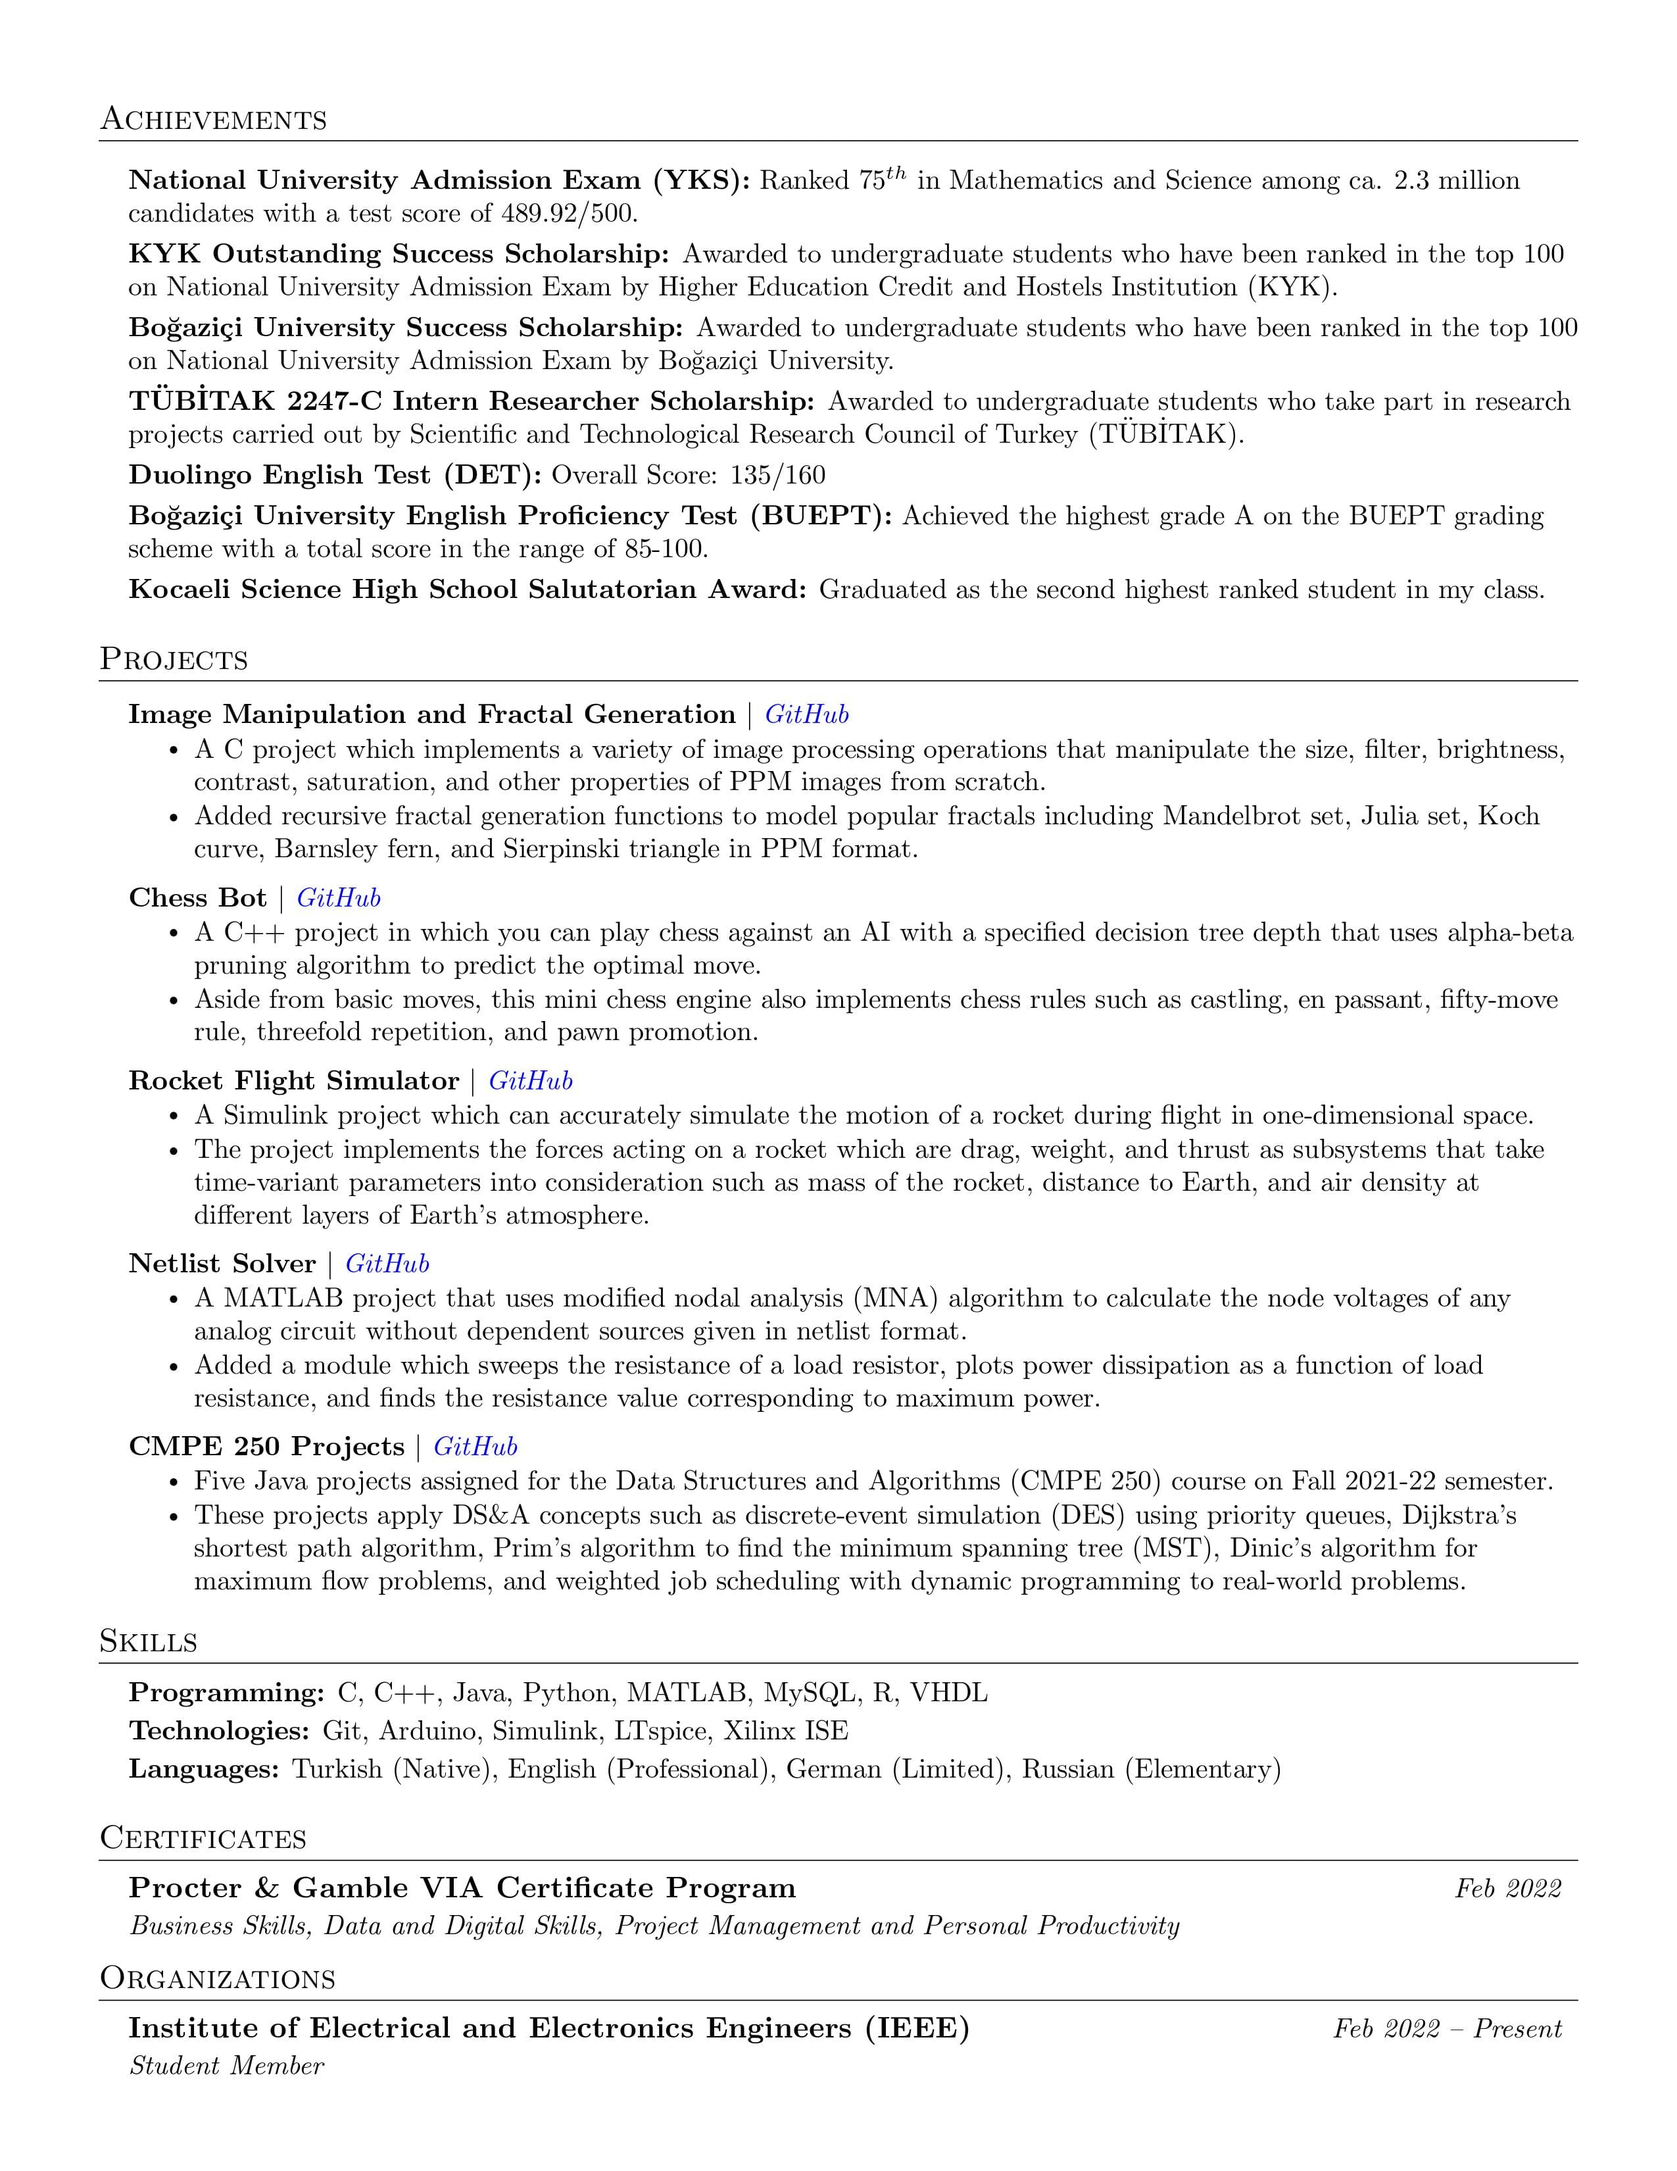
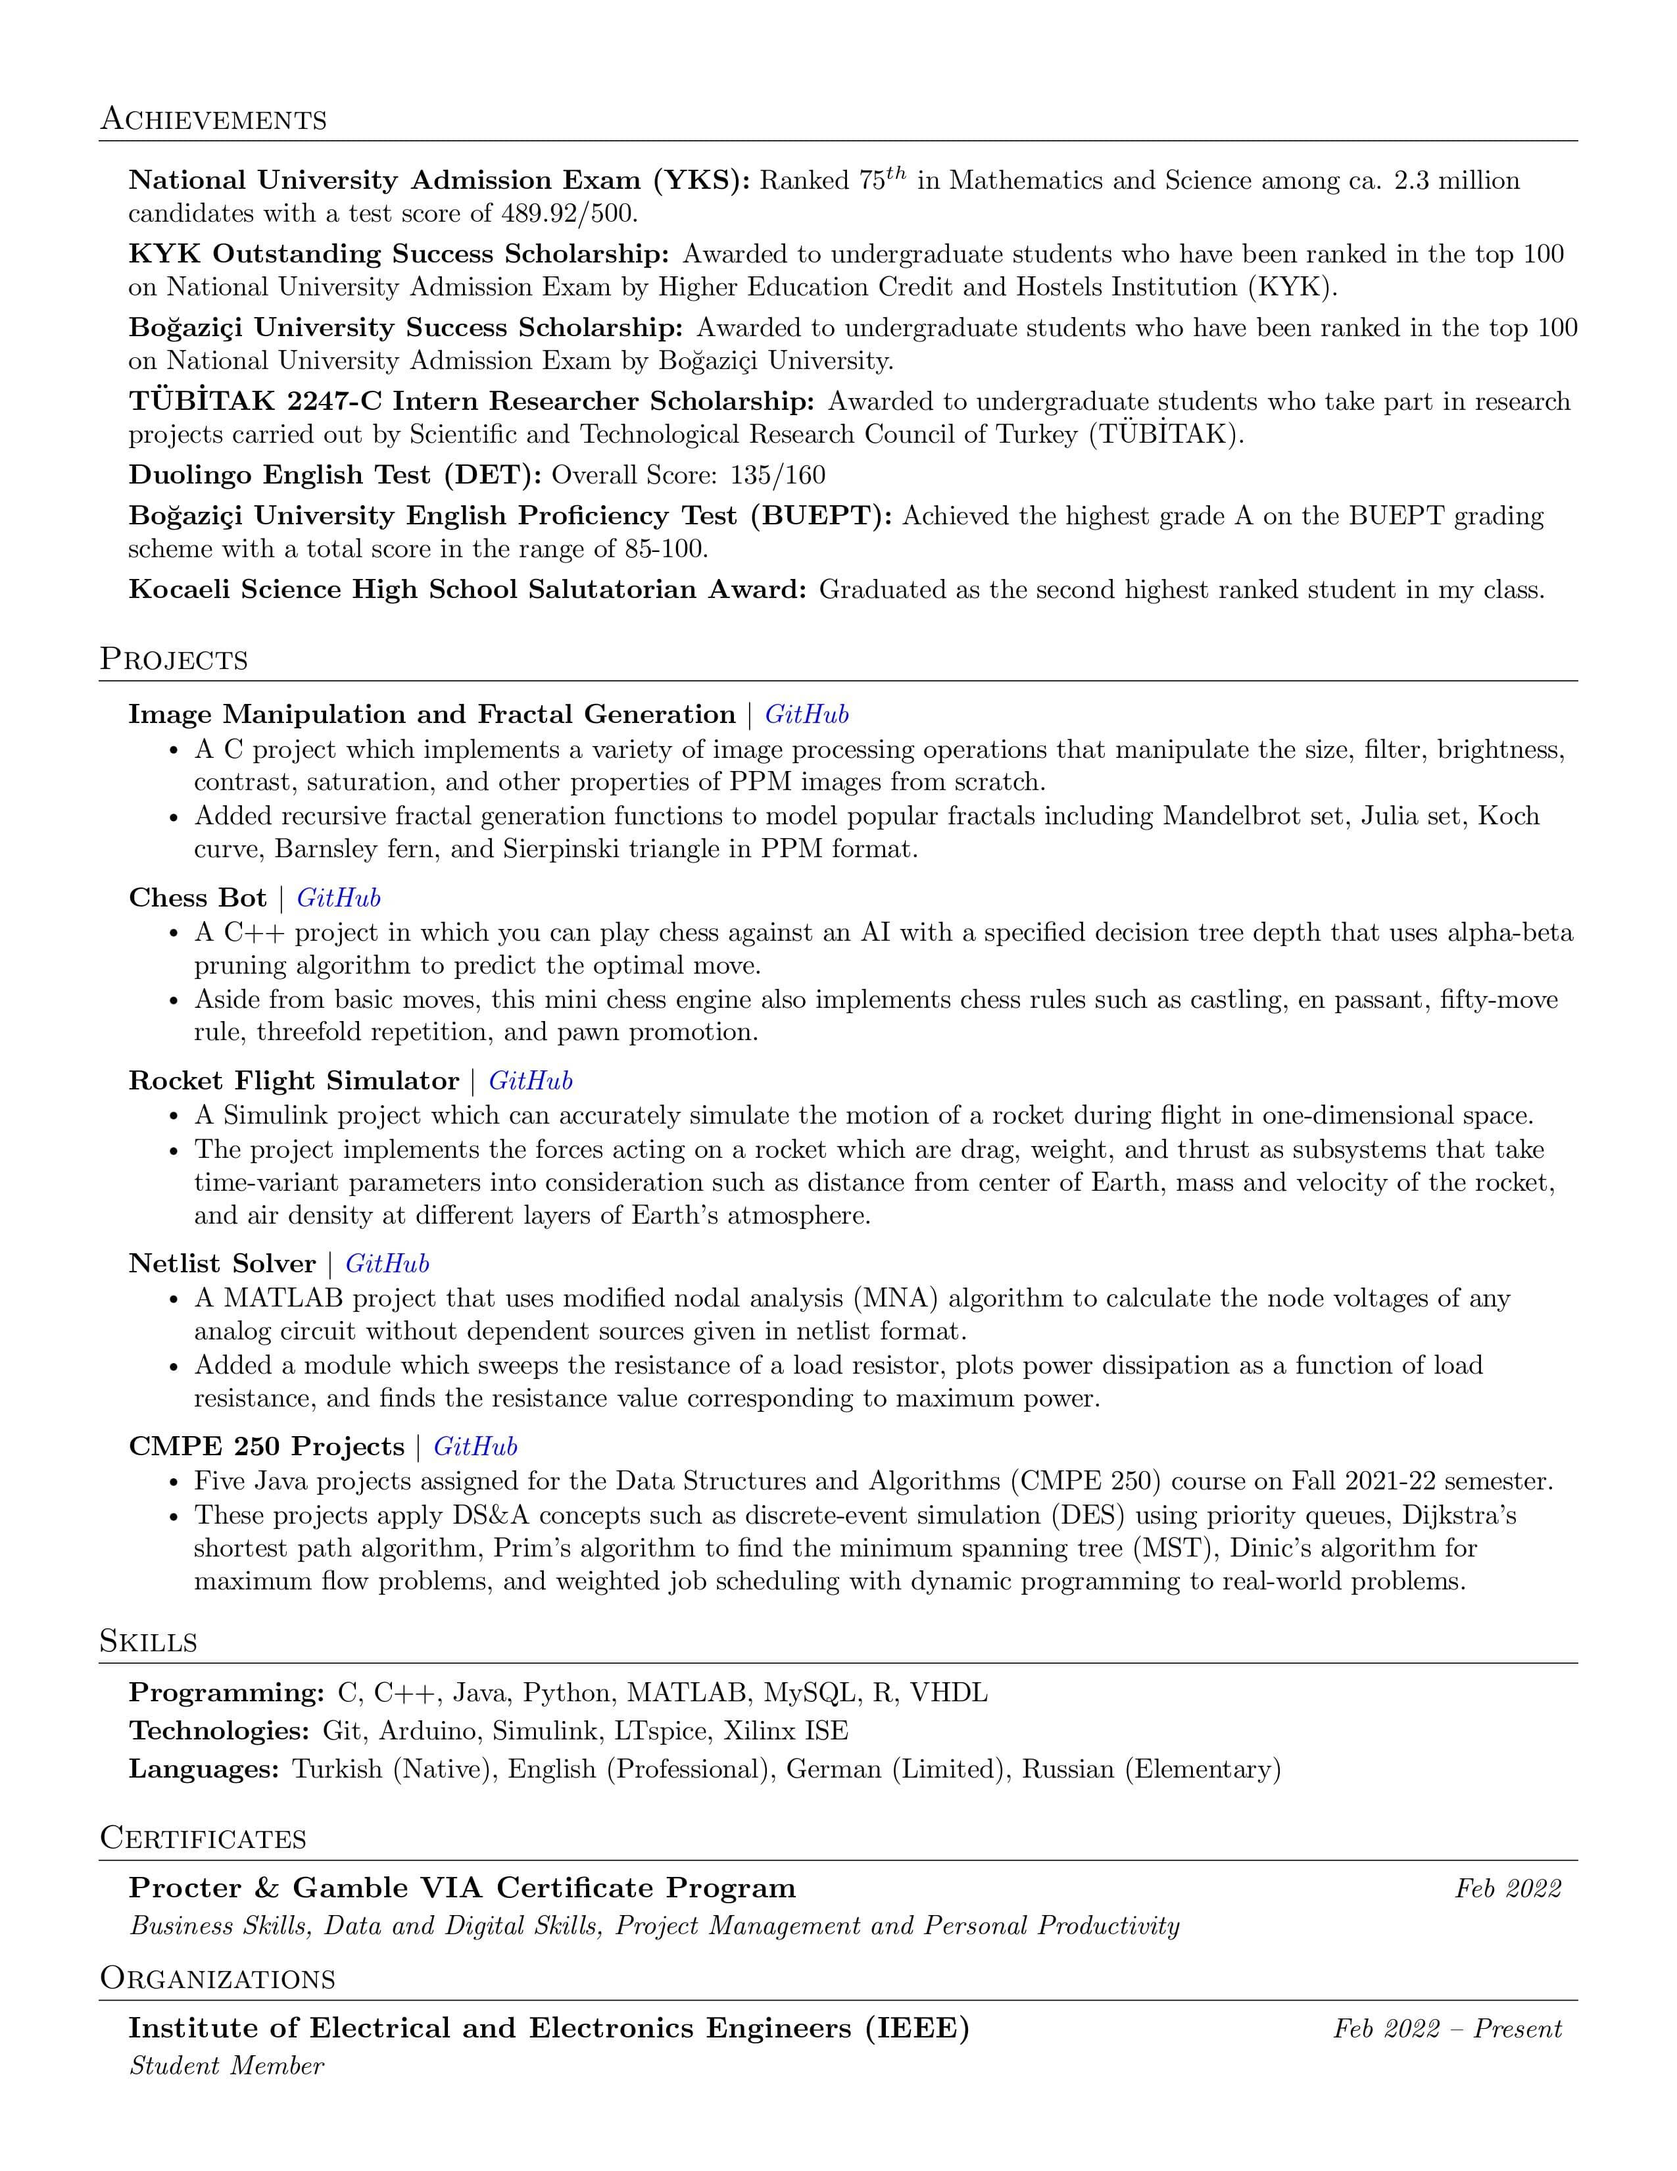
Updated CV

Changed region(s): [[0.5886, 0.5306, 0.8675, 0.5618], [0.4647, 0.5306, 0.5576, 0.5618], [0.2478, 0.5306, 0.2788, 0.5618]]

diff --git a/main.tex b/main.tex
@@ -250,7 +250,7 @@
         {\textbf{Rocket Flight Simulator} $|$ \emph{\href{https://github.com/arasgungore/rocket-flight-simulator}{\color{blue}GitHub}}}{}
           \resumeItemListStart
             \resumeItem{A Simulink project which can accurately simulate the motion of a rocket during flight in one-dimensional space.}
-            \resumeItem{The project implements the forces acting on a rocket which are drag, weight, and thrust as subsystems that take time-variant parameters into consideration such as mass of the rocket, distance to Earth, and air density at different layers of Earth's atmosphere.}
+            \resumeItem{The project implements the forces acting on a rocket which are drag, weight, and thrust as subsystems that take time-variant parameters into consideration such as distance from center of Earth, mass and velocity of the rocket, and air density at different layers of Earth's atmosphere.}
           \resumeItemListEnd
       
       \resumeProjectHeading
